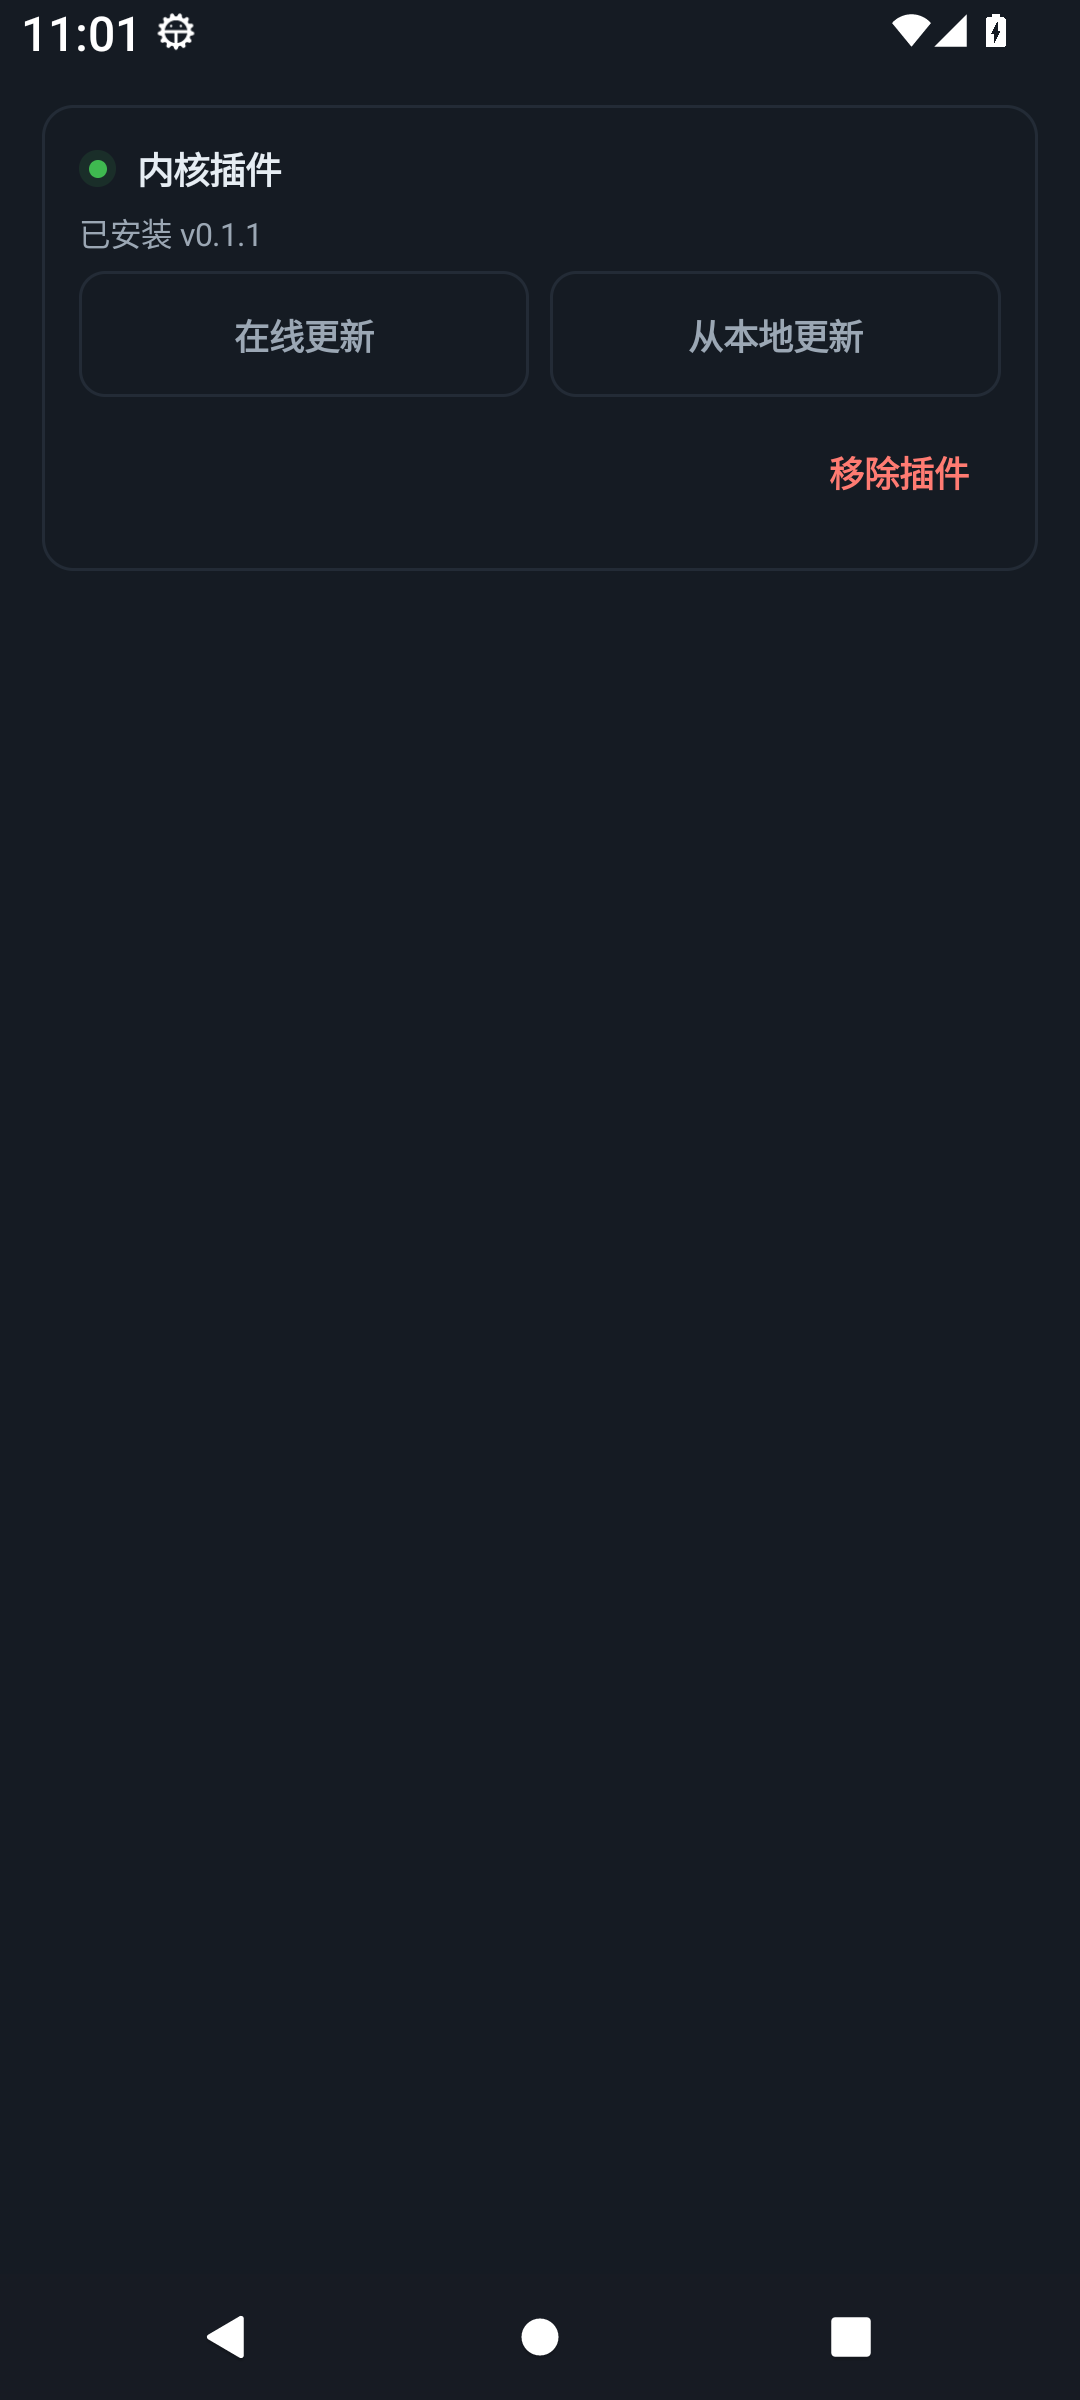
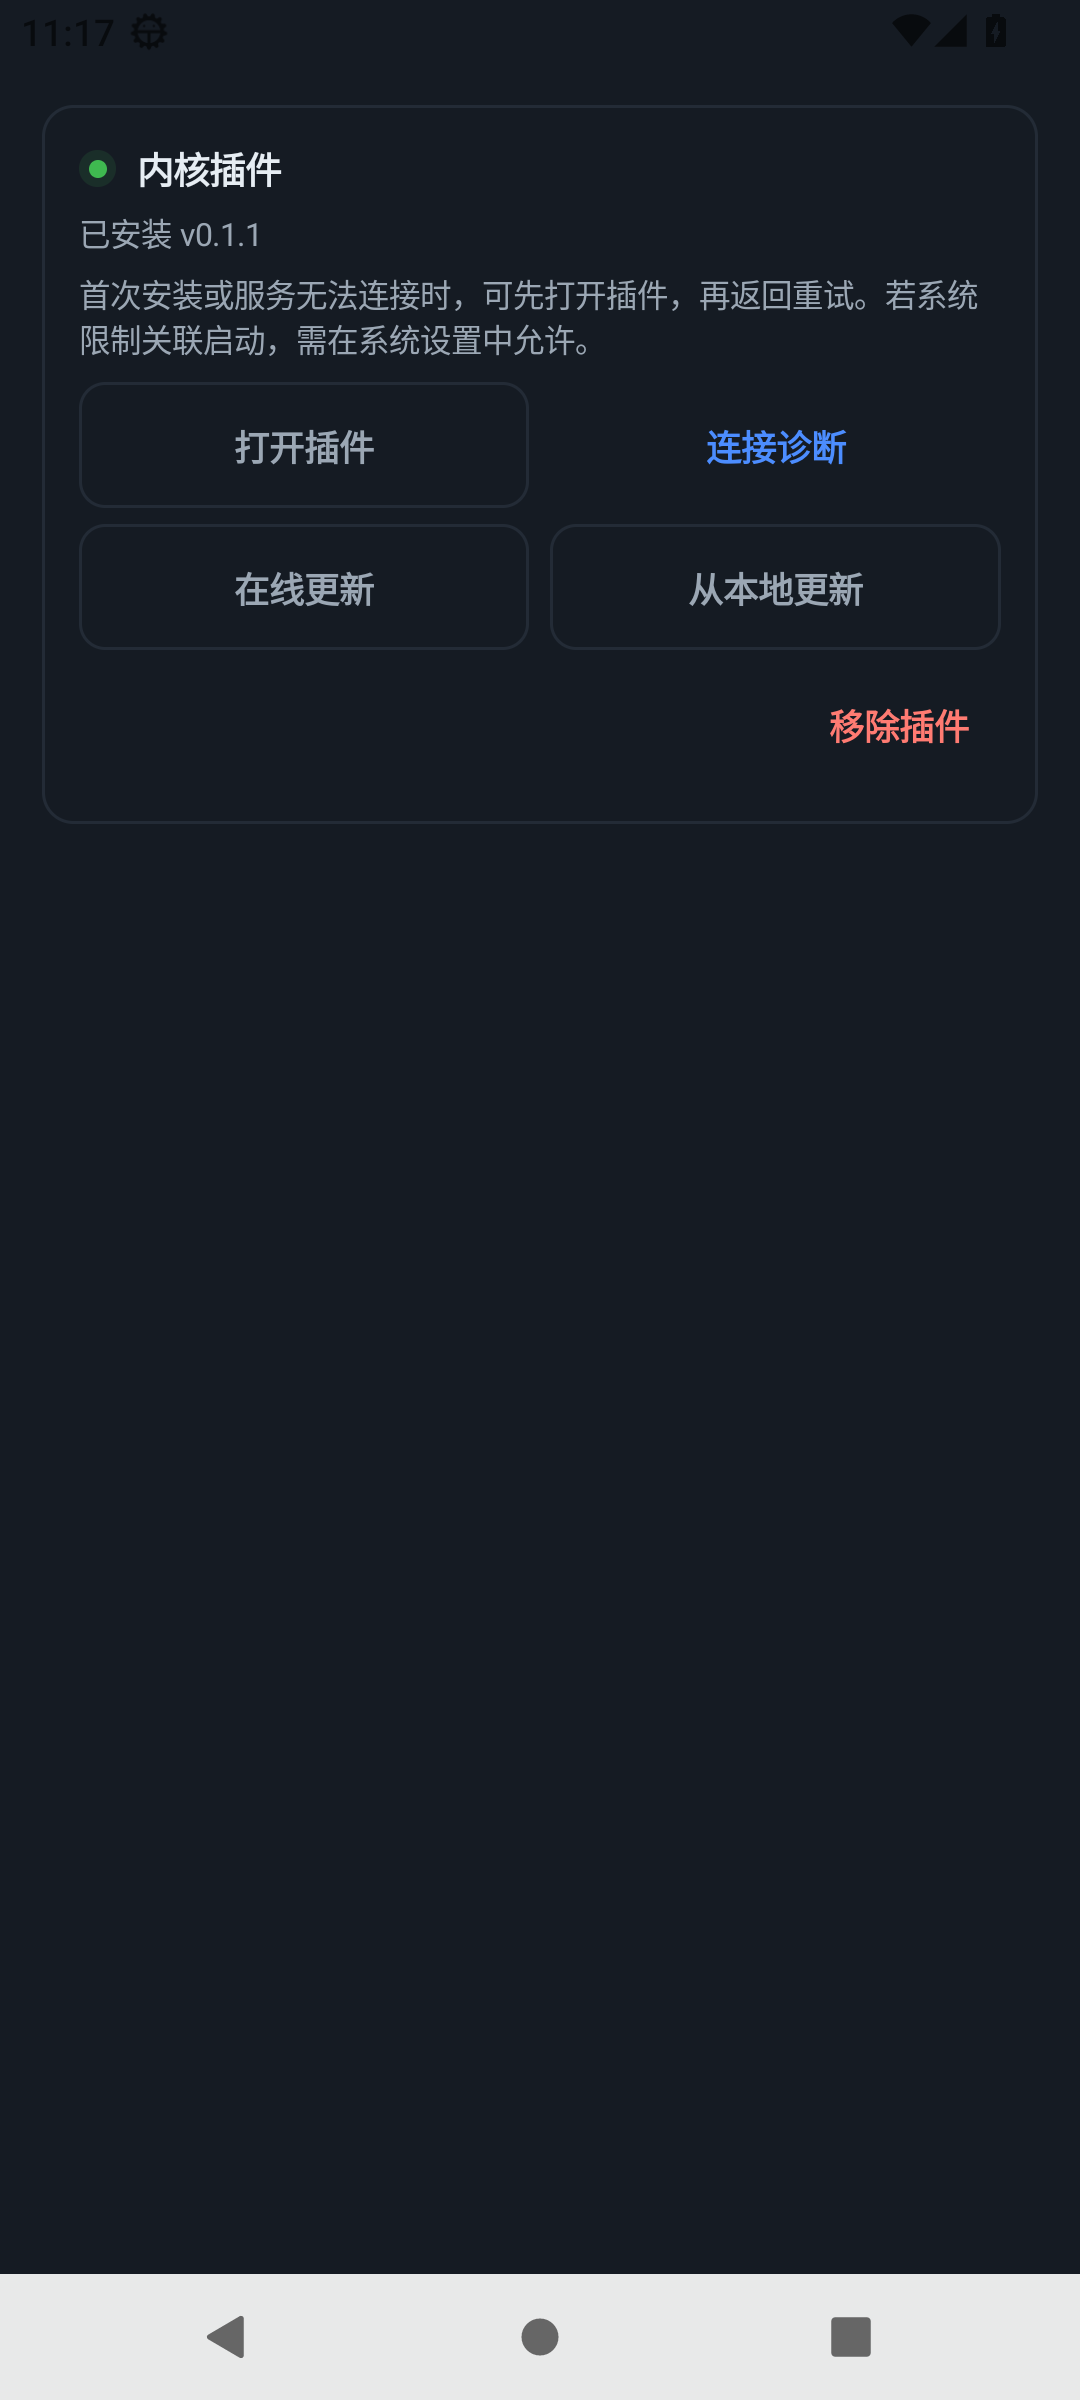
docs(ui): 更新最新主线的内核页面验证截图

diff --git a/docs/screenshots/kernel-plugin-actions/README.md b/docs/screenshots/kernel-plugin-actions/README.md
@@ -11,3 +11,5 @@
 `KernelPluginLayoutDeviceTest` 装载实际生产组件，使用固定版本信息展示已安装状态；更新、移除回调仅计数，不联网、不读取用户配置、不真正安装或移除软件。验证更新按钮彼此不重叠，移除入口位于下一行，文字按实际行宽完整呈现（允许最多 1px 的布局取整误差），三个回调各独立触发。两个主题由同一项测试覆盖。
 
 这是组件布局与点击验证，不代表完整代理连接、下载或 Android 系统安装流程验收。本次没有真机连接，未执行真机验证。
+
+已对齐远端 main `4d99fd5` 后重新构建双 ABI Debug APK、测试包并通过 Lint，再次安装到模拟器执行本项测试通过；截图为此次复核产物。未运行完整代理网络及系统安装流程。
